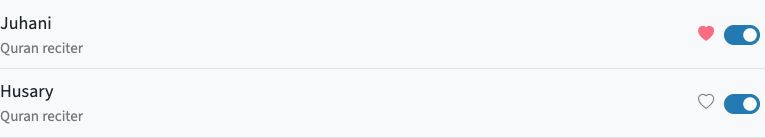
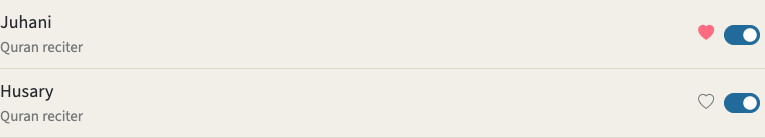
Retire superseded design comparisons and refresh adopted specimens

diff --git a/docs/design-system/library.html b/docs/design-system/library.html
@@ -5,18 +5,19 @@
   <meta name="viewport" content="width=device-width,initial-scale=1">
   <title>Component library · HadithDB</title>
   <link rel="stylesheet" href="../../public/static/css/ux-foundations.css">
+  <link rel="stylesheet" href="../../public/static/css/ivory.css">
   <link rel="stylesheet" href="library.css">
 </head>
-<body class="ux-system">
+<body class="ux-system" data-palette="ivory">
 <header><img src="../../public/static/img/logo2.svg" width="32" height="32" alt=""><strong>HadithDB</strong><a href="index.html">UX audit</a></header>
 <main>
   <h1>Component library</h1>
   <p class="intro">Settings and Community email preferences establish the first patterns for navigation, preferences and feedback. Each entry records a control in use and the behavior another page can reuse.</p>
-  <nav aria-label="Library sections"><a href="#foundations">Foundations</a><a href="#navigation">Navigation</a><a href="#choices">Choices</a><a href="#panels">Panels &amp; forms</a><a href="#control-options">Control options</a><a href="buttons.html">Button options</a><a href="#feedback">Actions &amp; feedback</a><a href="#adoption">Adding a page</a></nav>
+  <nav aria-label="Library sections"><a href="#foundations">Foundations</a><a href="#navigation">Navigation</a><a href="#choices">Choices</a><a href="#panels">Panels &amp; forms</a><a href="#feedback">Actions &amp; feedback</a><a href="#adoption">Adding a page</a></nav>
   <section id="foundations"><h2>Foundations</h2>
     <div class="grid">
       <article><h3>Interface type</h3><div class="type-sample">Reading &amp; listening</div><p>Source Sans 3 sets the interface rhythm. Page titles scale from 2 to 2.75 rem, group headings use 1.4 rem, and both use weight 650. Body text uses 1 rem with 1.5 line height. Use weight 600 for control labels.</p></article>
-      <article><h3>Color &amp; focus</h3><div class="palette"><span class="accent">Action</span><span class="text">Text</span><span class="muted">Summary</span><span class="inset">Inset</span></div><p>Ivory &amp; ink pairs a cream canvas with near-white reading and card surfaces. Use ink for text, blue for links and switches, and Midnight indigo for primary actions. Show a two-pixel accent outline on keyboard focus. <a href="palettes.html">Compare light palette options</a>.</p></article>
+      <article><h3>Color &amp; focus</h3><div class="palette"><span class="accent">Action</span><span class="text">Text</span><span class="muted">Summary</span><span class="inset">Inset</span></div><p>Ivory &amp; ink pairs a cream canvas with near-white reading and card surfaces. Use ink for text, blue for links and switches, and Midnight indigo for primary actions. Show a two-pixel accent outline on keyboard focus. <a href="../../public/static/css/ivory.css">Palette tokens</a>.</p></article>
     </div>
     <p>Load the <a href="../../public/static/css/ux-foundations.css">foundation stylesheet</a> and apply <code>ux-system</code> to the adopting page container. Its tokens inherit the active site theme. Quran specimens retain their script-specific fonts. Prose and Markdown typography will enter the library with the first finalized reading or authoring page.</p>
   </section>
@@ -31,13 +32,13 @@
       <article><h3>Script preview cards</h3><img src="settings/scripts.png" alt="Three radio cards showing the same ayah in Uthmani, Indo-Pak and Warsh"><p>Use one labeled radio group for an exclusive script choice. Each card pairs a name with the same referenced ayah in its own script and font. Preserve Arabic direction, marks, and line height. The entire card selects the option.</p></article>
       <article><h3>Appearance swatches</h3><img src="settings/themes.png" alt="Six labeled note themes showing paper and ink colors"><p>Show the actual foreground and background together. Each button exposes its theme name and pressed state. Keep the selected outline visible alongside the sample.</p></article>
       <article id="catalog-preferences"><h3>Catalog preferences</h3><img src="settings/catalog.png" alt="Translation cards with favorite hearts, switches and reorder handles"><p>Use a switch for inclusion, a heart for the preferred work, and a handle for ordering. Preserve protected entries and show the enabled count. Keep a single-language catalog flat. Offer “Enable all” when entries are disabled.</p><img src="settings/full-list.png" alt="Full view reciter rows with the name, description, favorite, and inclusion switch"><p>Tile and Full are two layouts of the same preferences. Full rows give the name and supporting detail more room. Keep the selected favorite, enabled state, and ordering when switching layouts.</p></article>
-      <article><h3>View selector</h3><img src="settings/view.png" alt="Tile and Full view buttons"><p>Set Tile and Full in a compact inset track. Give the selected segment a raised surface and accent text. Pair it with a borderless accent action for “Enable all”. Expose the active mode with <code>aria-pressed</code> and retain it after reload.</p></article>
+      <article><h3>View selector</h3><p>Set Tile and Full in a compact inset track. Give the selected segment a raised surface and accent text. Pair it with a borderless accent action for “Enable all”. Expose the active mode with <code>aria-pressed</code> and retain it after reload. See the <a href="#catalog-toolbar">rendered catalog toolbar</a>.</p></article>
     </div>
   </section>
   <section id="panels"><h2>Panels &amp; forms</h2>
     <p>These entries come from the expanded Settings panels. The shared CSS hooks live in the <a href="../../public/static/css/ux-foundations.css">foundation stylesheet</a>. Use them inside <code>ux-system</code> alongside the app’s Bootstrap form markup.</p>
     <div class="grid">
-      <article><h3>Panel header &amp; toolbar</h3><img src="settings/catalog-toolbar.png" alt="Reciter guidance beside Enable all and the Tile and Full selector"><p>Use <code>ux-panel-header</code> for guidance or a count alongside contextual actions. At 700 px and below, stack the actions beneath the description. Reading catalogs reuse the text action and inset selector. Email preferences uses the same header with a Midnight secondary link.</p></article>
+      <article id="catalog-toolbar"><h3>Panel header &amp; toolbar</h3><img src="settings/catalog-toolbar.png" alt="Reciter guidance beside Enable all and the Tile and Full selector"><p>Use <code>ux-panel-header</code> for guidance or a count alongside contextual actions. At 700 px and below, stack the actions beneath the description. Reading catalogs reuse the text action and inset selector. Email preferences uses the same header with a Midnight secondary link.</p></article>
       <article><h3>Nested disclosure</h3><img src="settings/language-disclosure.png" alt="English Tafsirs subsection with a trailing chevron"><p>Use a trailing chevron for both advanced fields and language groups. Advanced limits use native details. A catalog group uses a button with <code>aria-expanded</code> and <code>aria-controls</code> linked to its collapsible list. Keep a single-language catalog flat. See the <a href="#grouped-edits">advanced limits specimen</a>.</p></article>
       <article><h3>Field grid, labels &amp; units</h3><img src="settings/session.png" alt="Labeled numeric fields with a minutes suffix on the time budget"><p>Wrap the fields in <code>ux-fields</code>. Use <code>ux-field-grid</code> for related inputs and selects. Columns fit the available space and align controls below labels of different lengths. Number inputs, select menus, and unit suffixes share a 2.65 rem minimum height. Keep the unit visible next to its value.</p></article>
       <article><h3>Switches &amp; dependent settings</h3><p>Use the same Bootstrap switch inside <code>ux-fields</code> for catalog inclusion, Drive copies, and auto-recharge. The checked track uses the app’s dark accent blue. Label card switches with the item name and standalone switches with their effect. For a visible label, leave a 0.5 rem gap after the track and align wrapped lines under the first word.</p><p>Drive’s switch saves immediately. Auto-recharge groups its switch, threshold, and package under one Save action. Protected catalog entries keep their checked and disabled states. See <a href="#catalog-preferences">catalog preferences</a>.</p></article>
@@ -45,32 +46,10 @@
       <article><h3>Inset cards, balance &amp; activity</h3><img src="settings/payment-fields.png" alt="Points balance, purchase controls, auto-recharge fields, and a point activity entry"><p>Apply <code>ux-inset-card</code> to give a balance, scheduling group, or advanced disclosure the same surface and border. In billing, pair the balance with Buy, keep auto-recharge in a separate form group, and show recent point changes with amount, reason, and date. With an empty ledger, show “No point activity yet.”</p></article>
     </div>
   </section>
-  <section id="control-options"><h2>Control options</h2>
-    <p>Settings uses the inset selector and text action. Compare it with the two earlier alternatives using the same reciter preferences. Change the view, enable both reciters, or switch one off to try again.</p>
-    <div id="control-demos" class="grid"></div>
-    <template id="control-demo">
-      <article><h3></h3><p class="rationale"></p>
-        <div class="demo-panel">
-          <div class="demo-toolbar">
-            <button class="bulk" type="button">Enable all</button>
-            <div class="mode" role="group" aria-label="Reciter view">
-              <button type="button" data-mode="tile" aria-pressed="true">Tile</button>
-              <button type="button" data-mode="full" aria-pressed="false">Full</button>
-            </div>
-          </div>
-          <div class="reciters">
-            <label>Husari <input type="checkbox" role="switch" checked></label>
-            <label>Jalil <input type="checkbox" role="switch"></label>
-          </div>
-          <small role="status"></small>
-        </div>
-      </article>
-    </template>
-  </section>
   <section id="feedback"><h2>Actions &amp; feedback</h2>
     <div class="grid">
       <article id="action-hierarchy"><h3>Settings action hierarchy</h3><dl><dt>Midnight primary</dt><dd>Use the gradient for the main action in a task, such as saving a schedule, connecting Drive, buying points, or saving auto-recharge.</dd><dt>Midnight secondary</dt><dd>Use pale indigo for progress, timing personalization, email preferences, Drive import, and payment management.</dd><dt>Text and selection controls</dt><dd>Keep “Enable all”, folder links, and disconnect lightweight. View segments, switches, favorites, and preview cards communicate selection through their own states.</dd></dl></article>
-      <article id="grouped-edits"><h3>Grouped edits &amp; advanced limits</h3><img src="settings/session.png" alt="Review session limits and the advanced session limits disclosure"><p>Use the same field height, label weight, and focus treatment for review and billing inputs. Let the grid follow the available panel width. Show common fields first. Put category caps and queue order behind a named disclosure. Use the <a href="buttons.html#midnight">Midnight indigo</a> gradient for Save and the pale indigo secondary action for Progress. A single save action applies the related fields together and reports the result near the form.</p></article>
+      <article id="grouped-edits"><h3>Grouped edits &amp; advanced limits</h3><img src="settings/session.png" alt="Review session limits and the advanced session limits disclosure"><p>Use the same field height, label weight, and focus treatment for review and billing inputs. Let the grid follow the available panel width. Show common fields first. Put category caps and queue order behind a named disclosure. Use the <a href="#action-hierarchy">Midnight indigo</a> gradient for Save and the pale indigo secondary action for Progress. A single save action applies the related fields together and reports the result near the form.</p></article>
       <article><h3>Email notification groups</h3><img src="settings/email-notifications.png" alt="Email master switch, category switches and explicit Save preferences action"><p>Use a labeled master switch and a fieldset for dependent categories. Turning the master off disables the categories while retaining their choices. Save applies the group. Author subscriptions save independently and report their result beside the author list. <a href="../../views/community.ejs">Email preferences template</a></p></article>
       <article><h3>Saving a preference</h3><dl><dt>Ready</dt><dd>Show the saved choice or enabled count in the collapsed row.</dd><dt>Saving</dt><dd>For an immediate choice such as Quran script, show the pending state and disable the choice while the request is in flight.</dd><dt>Saved</dt><dd>Update the row summary and confirm the change beside the control.</dd><dt>Failed</dt><dd>Restore the saved selection or switches. Keep a failed form draft available for retry and exclude it from unrelated saves.</dd><dt>Signed out</dt><dd>Explain when sign-in is needed. Keep account-backed writes unavailable.</dd></dl></article>
     </div>
@@ -80,5 +59,4 @@
     <p>The current examples come from <a href="../../views/settings.ejs">the Settings beta template</a>, its <a href="../../public/static/css/settings-beta.css">component styles</a>, and the <a href="../../public/static/js/settings-filter.js">local search implementation</a>. Catalog, Drive, and billing specimens use sample account data. Use the <a href="index.html#controls">control comparisons</a> to find candidates as other pages are finalized.</p>
   </section>
 </main>
-<script src="control-options.js"></script>
 </body></html>

diff --git a/docs/design-system/library.css b/docs/design-system/library.css
@@ -1,5 +1,14 @@
 * { box-sizing: border-box; }
-body { margin: 0; background: var(--ux-surface); }
+body[data-palette="ivory"] {
+  --bs-body-bg: var(--ivory-surface);
+  --bs-body-color: var(--ivory-text);
+  --bs-secondary-color: var(--ivory-muted);
+  --bs-tertiary-bg: var(--ivory-inset);
+  --bs-border-color: var(--ivory-border);
+  --c-link-dark: var(--ivory-accent);
+  margin: 0;
+  background: var(--ivory-canvas);
+}
 main, header { max-width: 67rem; margin: auto; padding-inline: clamp(1rem, 4vw, 3rem); }
 header { display: flex; align-items: center; gap: .65rem; min-height: 4rem; border-bottom: 1px solid var(--ux-border); }
 header a { margin-inline-start: auto; }
@@ -16,7 +25,7 @@ a { color: var(--ux-accent); text-underline-offset: .2em; }
 a:focus-visible { outline: var(--ux-focus-ring); outline-offset: 2px; }
 section { border-top: 1px solid var(--ux-border); padding-top: 1.4rem; margin-top: 1.5rem; }
 .grid { display: grid; grid-template-columns: repeat(auto-fit, minmax(min(21rem, 100%), 1fr)); gap: 1rem; }
-article { border: 1px solid var(--ux-border); border-radius: .6rem; padding: 1rem; min-width: 0; }
+article { background: var(--ux-surface); border: 1px solid var(--ux-border); border-radius: .6rem; padding: 1rem; min-width: 0; }
 article > :last-child { margin-bottom: 0; }
 article img { display: block; max-width: 100%; height: auto; }
 .type-sample { font-size: var(--ux-section-size); font-weight: var(--ux-heading-weight); }
@@ -27,23 +36,3 @@ article img { display: block; max-width: 100%; height: auto; }
 .palette .inset { padding-inline: .45rem; background: var(--ux-inset); border: 1px solid var(--ux-border); border-radius: .35rem; }
 dt { font-weight: 600; }
 dd { margin: 0 0 .6rem; }
-
-.demo-panel { padding: .8rem; border-radius: .5rem; background: var(--ux-inset); }
-.demo-toolbar, .mode { display: flex; align-items: center; }
-.demo-toolbar { justify-content: space-between; gap: .5rem; flex-wrap: wrap; margin-bottom: .8rem; }
-.demo-panel :is(button, select) { font: 600 .94rem/1.25 var(--ux-font-ui); min-height: 36px; padding: .4rem .65rem; border: 1px solid transparent; background: transparent; color: var(--ux-muted); cursor: pointer; }
-.demo-panel .bulk { color: var(--ux-accent); border-radius: .4rem; }
-.demo-panel :is(button, select, input):focus-visible { outline: var(--ux-focus-ring); outline-offset: 2px; }
-.demo-panel button:enabled:hover { text-decoration: underline; text-underline-offset: .15em; }
-.demo-panel button:disabled { opacity: .55; cursor: default; }
-.tab-mode .mode button { border-bottom: 2px solid var(--ux-border); }
-.tab-mode .mode button[aria-pressed="true"] { border-bottom-color: var(--ux-accent); color: var(--ux-accent); }
-.tab-mode .bulk { background: color-mix(in srgb, var(--ux-accent) 10%, white); }
-.select-mode .bulk, .select-mode select { background: var(--ux-surface); border: 1px solid var(--ux-border); border-radius: .4rem; }
-.reciters { display: grid; grid-template-columns: repeat(2, minmax(0, 1fr)); gap: .45rem; }
-.reciters label { display: grid; gap: .65rem; padding: .6rem; border: 1px solid var(--ux-border); border-radius: .45rem; background: var(--ux-surface); font-weight: 600; cursor: pointer; }
-.reciters.full { grid-template-columns: 1fr; }
-.reciters.full label { display: flex; align-items: center; justify-content: space-between; }
-.reciters input, .preview-switch { appearance: none; width: 2rem; height: 1.15rem; border: 1px solid var(--ux-muted); border-radius: 1rem; margin: 0; background: radial-gradient(circle at .54rem center, var(--ux-muted) .35rem, transparent .38rem); cursor: pointer; }
-.reciters input:checked, .preview-switch:checked { border-color: var(--ux-accent); background: radial-gradient(circle at calc(100% - .54rem) center, white .35rem, transparent .38rem) var(--ux-accent); }
-.demo-panel small { display: block; color: var(--ux-muted); margin-top: .4rem; }

diff --git a/docs/design-system/index.html b/docs/design-system/index.html
@@ -1,10 +1,10 @@
 <!doctype html>
-<html lang="en"><head><meta charset="utf-8"><meta name="viewport" content="width=device-width,initial-scale=1"><title>HadithDB · Design system</title><link rel="stylesheet" href="system.css"></head>
+<html lang="en"><head><meta charset="utf-8"><meta name="viewport" content="width=device-width,initial-scale=1"><title>HadithDB · UX audit</title><link rel="stylesheet" href="system.css"></head>
 <body><a class="skip" href="#main">Skip to reference</a>
-<header><img src="../../public/static/img/logo2.svg" alt="" width="34" height="34"><strong>HadithDB</strong><span class="divide">/</span>Design system</header>
+<header><img src="../../public/static/img/logo2.svg" alt="" width="34" height="34"><strong>HadithDB</strong><span class="divide">/</span>UX audit</header>
 <main id="main">
-<div class="intro"><div><h1>Design system</h1><p>A visual reference for reading, studying and contributing across HadithDB.</p></div><div class="edition">Web application<br>19 November 2026</div></div>
-<nav aria-label="Reference sections"><a href="library.html">Settings component library</a><a href="#controls">Control comparisons</a><a href="#patterns">Proposed standards</a><a href="#foundations">Audit foundations</a><a href="#atlas">Page atlas</a><a href="#coverage">Coverage</a></nav>
+<div class="intro"><div><h1>UX audit</h1><p>Original route captures, control comparisons, and proposals for the makeover. The component library records the adopted designs.</p></div><div class="edition">Web application<br>19 November 2026</div></div>
+<nav aria-label="Reference sections"><a href="library.html">Current component library</a><a href="#controls">Control comparisons</a><a href="#patterns">Proposed standards</a><a href="#foundations">Audit foundations</a><a href="#atlas">Page atlas</a><a href="#coverage">Coverage</a></nav>
 <section id="controls" aria-labelledby="controls-heading"><h2 id="controls-heading">Control comparisons</h2>
 <p>Compare the same task across the app. Each image is cropped from the rendered element at the selected viewport.</p>
 <div class="audit-findings" aria-label="Observed differences"><strong>Observed differences</strong>

diff --git a/skills/hadithdb-ux-audit/SKILL.md b/skills/hadithdb-ux-audit/SKILL.md
@@ -5,7 +5,7 @@ description: Audit HadithDB pages during the UX makeover, compare repeated contr
 
 # HadithDB UX audit
 
-Start with the current page and the [component library](../../docs/design-system/library.html). The [audit atlas](../../docs/design-system/index.html) helps locate equivalents across routes. The library records accepted designs; its comparison pages also contain alternatives. Check which one was selected.
+Start with the current page and the [component library](../../docs/design-system/library.html). The [audit atlas](../../docs/design-system/index.html) helps locate equivalents across routes. The library records accepted designs. After selection, fold the chosen treatment into its existing entry, refresh affected specimens, and retire the comparison files and styles after checking their consumers. Keep original audit captures available for before-and-after review.
 
 ## Inspect two ways
 
